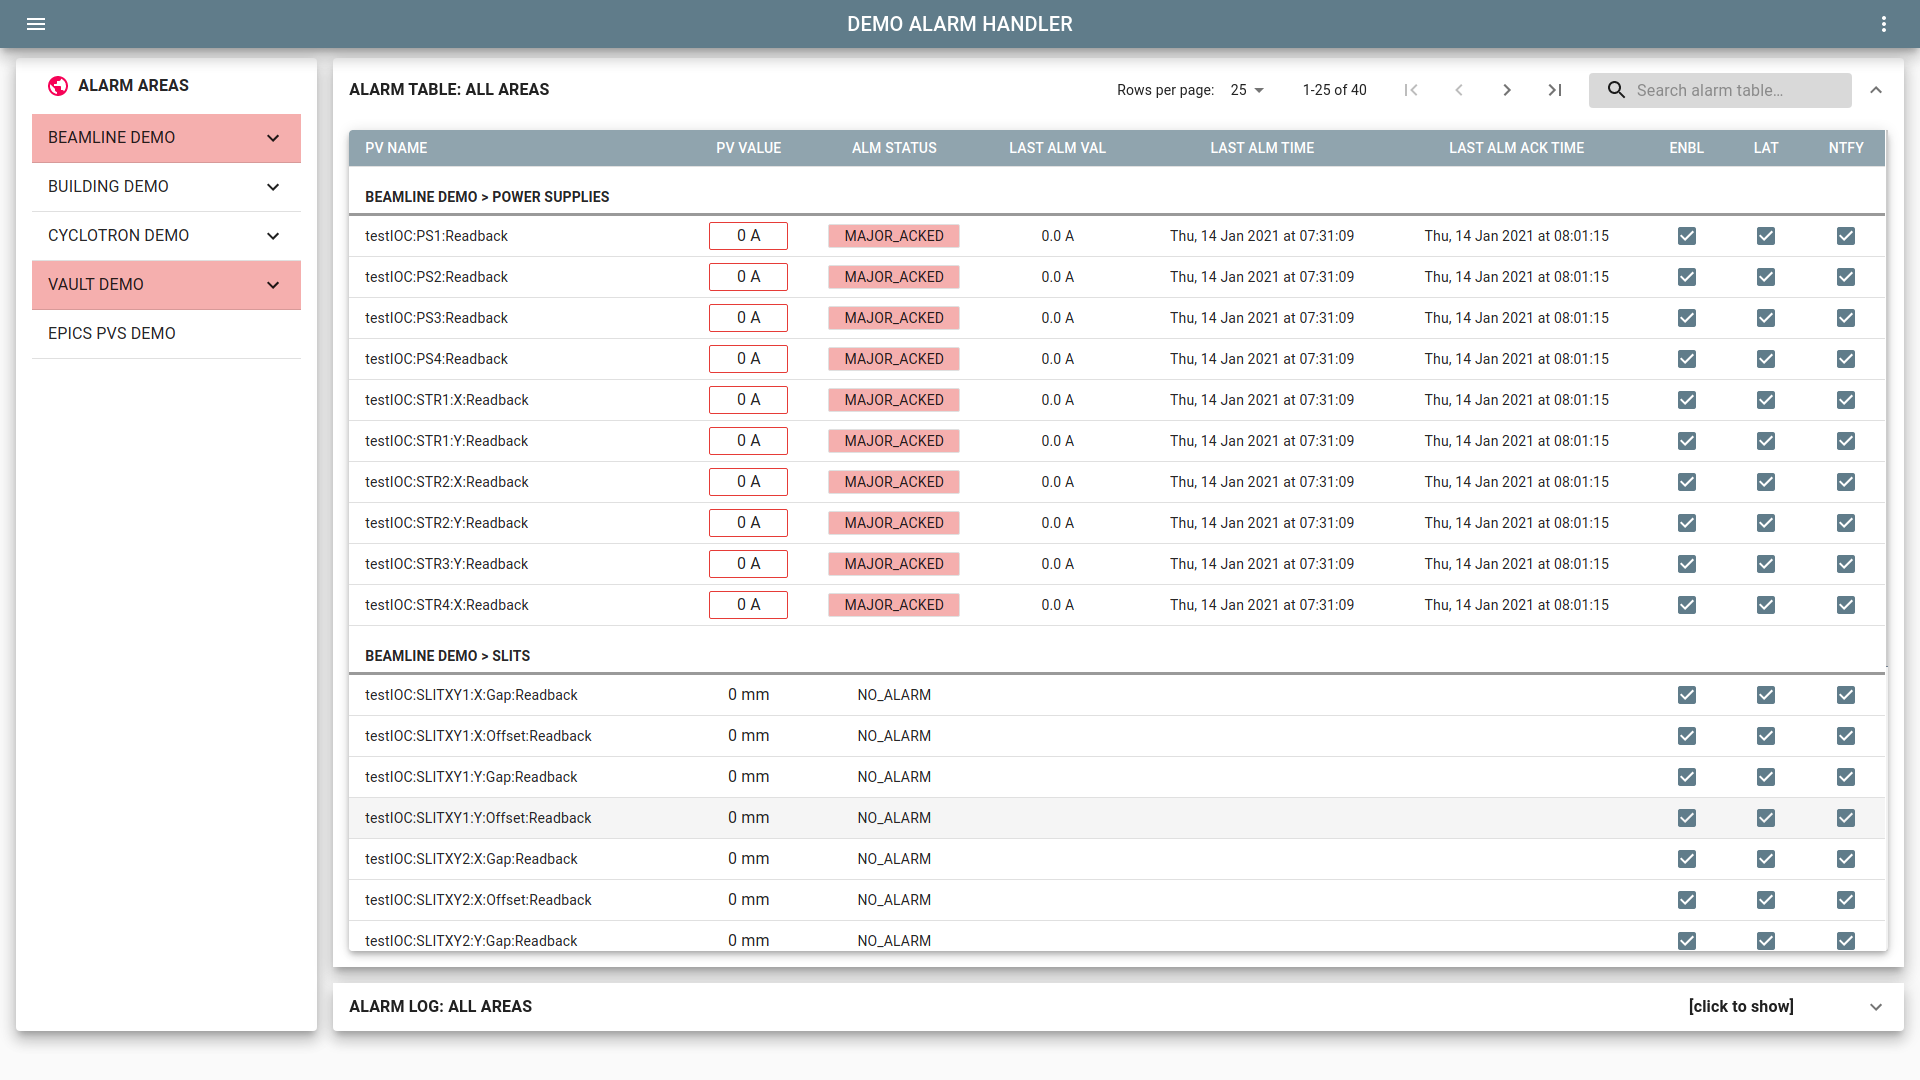
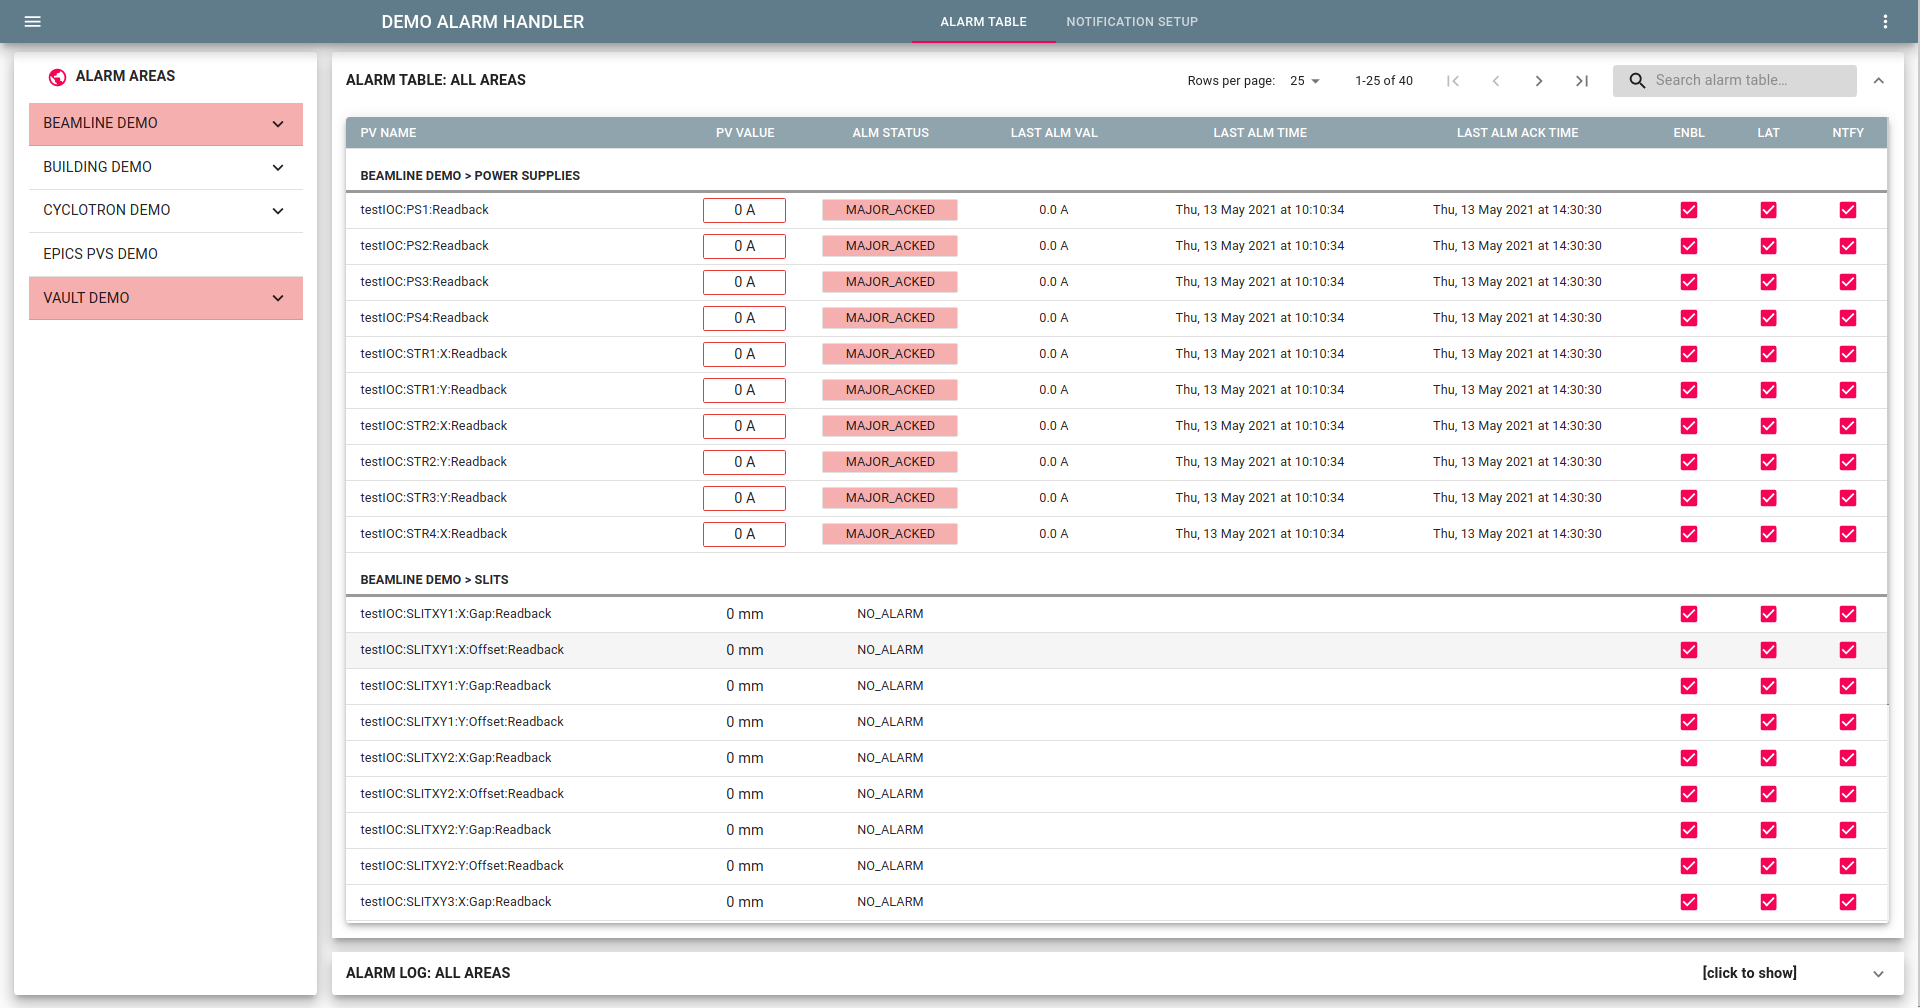
Update some of alarm handler docs

Changed region(s): [[0.0, 0.0, 1.0, 1.0]]

diff --git a/ReactApp/styleguide.config.js b/ReactApp/styleguide.config.js
@@ -234,6 +234,14 @@ module.exports = {
                   content: 'src/docs/alarmHandler/environment.md',
                 },
                 {
+                  name: 'Setting up email notifications',
+                  content: 'src/docs/alarmHandler/emailNotification.md',
+                },
+                {
+                  name: 'Setting up Signal notifications',
+                  content: 'src/docs/alarmHandler/signalNotification.md',
+                },
+                {
                   name: 'MongoDB seed data',
                   content: 'src/docs/alarmHandler/seedData.md',
                   sections: [
@@ -246,8 +254,8 @@ module.exports = {
                       content: 'src/docs/alarmHandler/pvListJson.md',
                     },
                     {
-                      name: 'users.json',
-                      content: 'src/docs/alarmHandler/usersJson.md',
+                      name: 'Users',
+                      content: 'src/docs/alarmHandler/Users.md',
                     },
                   ]
                 },

diff --git a/ReactApp/src/docs/alarmHandler/alarmAreas.md b/ReactApp/src/docs/alarmHandler/alarmAreas.md
@@ -7,6 +7,7 @@ Each area can be expanded/contracted to reveal/hide the subAreas within that are
 |                                        BEAMLINE DEMO Area (subAreas hidden)                                         |                                       BEAMLINE DEMO Area (subAreas shown)                                       |
 | :-----------------------------------------------------------------------------------------------------------------: | :-------------------------------------------------------------------------------------------------------------: |
 | <img src="img/alarmHandler/alarmSetup_AlarmList_Contracted.png" alt="alarmSetup_AlarmList_Contracted" width="80%"/> | <img src="img/alarmHandler/alarmSetup_AlarmList_Expanded.png" alt="alarmSetup_AlarmList_Expanded" width="80%"/> |
+
 <center>*Area with subAreas hidden or shown*</center>
 
 <br/>
@@ -35,7 +36,25 @@ A disabled area/subArea is reflected with a grey colour as shown below. This fol
 <br/><br/>
 
 <br/>
-**Admin actions - Adding a new pv**
+**Global actions**
+
+The **ALARM AREAS** section also has a global button (_`world icon`_ on the top left) that a user can click (left click) to select all the areas (complete alarm handler). Right clicking this icon enables a user to acknowledge or enable/disable all the areas. This is shown below.
+
+<center><img src="img/alarmHandler/alarmSetup_AlarmList_Global.png" alt="alarmSetup_AlarmList_Global" width="35%"/></center>  
+<center>*Global alarm handler actions*</center>
+<br/><br/>
+
+<br/>
+**ADMINISTRATOR ACTIONS**
+
+A set of admin actions can also be executed from the **ALARM AREAS** list as shown below. Only alarmAdmin role users can execute these actions.
+
+<center><img src="img/alarmHandler/alarmSetup_AlarmList_Admin.png" alt="alarmSetup_AlarmList_Admin" width="35%"/></center>  
+<center>*Alarm admin actions on ALARM AREAS list*</center>
+<br/><br/>
+
+<br/>
+**Admin action - Add new pv**
 
 To add a new pv right click the relevant area/subArea and under the `Alarm admin actions` menu click on `Add new pv`. This opens up the add pv dialog as shown below. The `ADD` button of the dialog is disabled until a valid live pv name is typed in. Multiple pvs can be added simultaneously by clicking the `+` icon next to the pv name.
 
@@ -43,13 +62,18 @@ To add a new pv right click the relevant area/subArea and under the `Alarm admin
 <center>*Add pv dialog*</center>
 <br/><br/>
 
-**NOTE:** Only alarmAdmin role users can execute any alarm admin actions. 
+Pvs can be deleted through the **ALARM TABLE** as shown in the next section.
 
 <br/>
-**Global actions**
+**Admin action - Add new subArea**
 
-The **ALARM AREAS** section also has a global button (*`world icon`* on the top left) that a user can click (left click) to select all the areas (complete alarm handler). Right clicking this icon enables a user to acknowledge or enable/disable all the areas. This is shown below.
+To add a new subArea right click the relevant area and under the `Alarm admin actions` menu click on `Add new subArea`. This opens up the add subArea dialog as shown below. Roles can also be added to a given subArea. If roles are not defined the subArea is visible to all alarm users, if defined they're only visible to the roles specified.
 
-<center><img src="img/alarmHandler/alarmSetup_AlarmList_Global.png" alt="alarmSetup_AlarmList_Global" width="35%"/></center>  
-<center>*Global alarm handler actions*</center>
+<center><img src="img/alarmHandler/alarmSetup_addsubArea_dialog.png" alt="alarmSetup_addsubArea_dialog" width="60%"/></center>  
+<center>*Add subArea dialog*</center>
 <br/><br/>
+
+<br/>
+**Admin action - Edit/Delete subArea**
+
+To edit/delete an existing subArea click the relevant menu item under the `Alarm admin actions` menu.

diff --git a/ReactApp/src/docs/alarmHandler/alarmNotification.md b/ReactApp/src/docs/alarmHandler/alarmNotification.md
@@ -1,9 +1,14 @@
-The alarm handler can be configured to notify a user when an alarm is triggered. Currently the alarm handler can only notify via email. In future we hope to expand this to SMS and WhatsApp.
+The alarm handler can be configured to notify a user when an alarm is triggered. Currently the alarm handler can only notify via email or the Signal messenger app. In future we hope to expand this to SMS and WhatsApp.
 
 **Email notification**<br/>
 The alarm server uses the Python [smtplib module](https://docs.python.org/3/library/smtplib.html) to define an SMTP client session object that is used to send mail to a machine with an SMTP or ESMTP listener daemon.
 
-The SMTP server settings are configured through environment variables as shown in the section <b>Setting Up Alarm Server</b>. The `SMTP_USER` and `SMTP_PASS` variables do not need to be declared if the smtp server does not require login. Once the SMTP server settings have been configured correctly, users that have been set to notify via email in the user notification setup (see section <b>User notification view
+The SMTP server settings are configured through environment variables as shown in the section <b>Setting up email notifications</b>. The `SMTP_USER` and `SMTP_PASS` variables do not need to be declared if the smtp server does not require login. Once the SMTP server settings have been configured correctly, users that have been set to notify via email in the user notification setup (see section <b>User notification view
 </b>) will be notified via email.
+
+**Signal notification**<br/>
+The alarm server uses the Python [signal-cli-rest-api](https://github.com/SebastianLuebke/signal-cli-rest-api) to interact with the Signal command line interface through http requests.
+
+The Signal server settings are configured through environment variables as shown in the section <b>Setting up Signal notifications</b>. The Signal account must subsequently be linked to the server as described in the same section. Once the Signal server has been linked correctly, users that have been set to notify via Signal in the user notification setup (see section <b>User notification view </b>) will be notified via Signal.
 
 All notification events, including failures to notify, are logged in the global alarm handler log and can be viewed in the front end (user interface).

diff --git a/ReactApp/src/docs/alarmHandler/environment.md b/ReactApp/src/docs/alarmHandler/environment.md
@@ -11,11 +11,16 @@ The alarm server is deployed with the following default parameters:
 | AH\_DEBUG | false | Directive to print additional data useful for debugging the alarm handler to the terminal
 | AH\_TZ | Etc\/UTC (Canonical +00:00) | Time zone setting for alarm handler server. This is used when dates are formatted to strings for notification. Set as per https://en.wikipedia.org/wiki/List_of_tz_database_time_zones
 | | |
+| | |
 | SMTP_HOST | | SMTP server hostname. Required for alarm handler to notify alarm events via email
 | SMTP_PORT | | SMTP server port number. Required for alarm handler to notify alarm events via email
 | SMTP_SENDER | | SMTP sender email address. Required for alarm handler to notify alarm events via email
 | SMTP_USER | | Username to log into SMTP server. Optional - leave blank if no login required
 | SMTP_PASS | | Password to log into SMTP server. Optional - leave blank if no login required
+| | |
+| | |
+| SIGNAL\_CLI\_REST\_API\_PORT | 8000 | Python signal-cli-rest-api port
+| SIGNAL\_ACC\_NUMBER |  | Mobile number used for Signal account. Must be in E.164 format as per https://en.wikipedia.org/wiki/E.164
 </center>
 <center>*Table 1: Default alarm server configuration*</center>
 <br/><br/>
@@ -58,14 +63,6 @@ Edit .env file and set new timezone (as per https://en.wikipedia.org/wiki/List_o
 ```
 
 <br/>
-**Configuring SMTP server settings for email notification:**
-
-Edit .env file and set server settings (in this example login credentials have been omitted as the server does not require login):
-```bash
-    SMTP_HOST=smtpserver.lab.edu
-    SMTP_PORT=12345
-    SMTP_SENDER=alarmnotifier@lab.edu
-```
 
 **NOTE:** If the alarm database name is changed, upon restart of the alarm handler, a new database with the set name is created and initialised with seed data (see next section for details on seed data). **The alarm server will no longer point to the previous alarm database and historical alarm data will not be accessible!** For this reason it is recommended that the alarm database name is set as desired before deploying into production or saving critical data onto the database.
 

diff --git a/ReactApp/src/docs/alarmHandler/signalNotification.md b/ReactApp/src/docs/alarmHandler/signalNotification.md
@@ -1,0 +1,44 @@
+To enable Signal notifications first set the server port and the Signal account number through environment variables.
+
+The server port defaults to 8000 if not set.
+
+The Signal account number must be in E.164 format as per https://en.wikipedia.org/wiki/E.164 .
+
+Edit .env file and set:
+
+```bash
+    SIGNAL_ACC_NUMBER=+12345678901
+    SIGNAL_CLI_REST_API_PORT=8000
+```
+
+<br/>
+
+The next step is to link the Signal account (number above) to the server. **To link the device you will require a mobile smartphone with the Signal app installed and logged in with the above Signal account number.**
+
+On a browser navigate to the signal-cli-rest-api web server which can be found at http://localhost:8000/docs if RAS is running on the local PC or at http://XXX.XXX.XXX.XXX:8000/docs where XXX... is the IP of the remote server.
+
+<br/>
+
+You will be presented with the web interface below.
+
+<center>
+<img src="img/alarmHandler/signal-cli-rest-api.png" alt="signal-cli-rest-api" width="100%"/>
+</center>
+<center>*signal-cli-rest-api web server*</center>
+<br/><br/>
+
+To link the device follow the steps below:
+1. On the signal-cli-rest-api web server under the **register** methods click on **/register/{number}/link**
+2. Click on the **[Try it out]** button
+3. Enter the Signal account number (as above in E.164 format) in the **number** input field and click on the **[Execute]** button
+4. After a few seconds a response will be shown with a QR code, ensure the response code is 200 - HTTP OK success response
+5. In the Signal app on the mobile smartphone:
+   * Navigate to **Settings** > **Linked devices**
+   * Click on the **(+)** icon to link a new device
+   * Use the smartphone camera to scan the QR code shown on the webserver from above
+   * Click **Link device** when prompted
+   * A **Device approved** message will confirm that the device has been linked
+
+To verify the link on the server:
+   * Navigate from the React Automation Studio root folder to `./signalcli/signal-cli-config/data/`
+   * Verify that a file with filename of the Signal account number has been created at that location

diff --git a/ReactApp/src/docs/alarmHandler/alarmSetup.md b/ReactApp/src/docs/alarmHandler/alarmSetup.md
@@ -1,12 +1,4 @@
-The remainder of the user guide addresses the alarm handler user interface. This is comprised of two views - an alarm setup view and a user notification view.
-
-Use the moreVert drawer menu (three dots on top right) to switch between the alarm setup and user notification views as shown below.
-
-<center>
-<img src="img/alarmHandler/alarmSetup_userNotification_click2.png" alt="alarmSetup_userNotification_click" width="100%"/>
-</center>
-<center>*Navigating between alarm setup and user notification views using moreVert drawer menu*</center>
-<br/><br/>
+The remainder of the user guide addresses the alarm handler user interface. This is comprised of two views - an alarm table view and a notification setup view. Use the tabs on top to switch between the alarm table view and notification setup views.
 
 The alarm setup view comprises of three areas - the **ALARM AREAS** menu list, the **ALARM TABLE** and the **ALARM LOG** as shown below.
 

diff --git a/ReactApp/src/docs/alarmHandler/seedData.md b/ReactApp/src/docs/alarmHandler/seedData.md
@@ -1,10 +1,9 @@
-The first time the alarm handler is run an alarm database is created and initialised with seed data from three json files.
+The first time the alarm handler is run an alarm database is created and initialised with seed data from two json files.
 
 These files can be found, from the React Automation Studio root folder, at:
 ```bash
     ./alarmHandlerDbInit/initDBData/config.json
     ./alarmHandlerDbInit/initDBData/pvList.json
-    ./alarmHandlerDbInit/initDBData/users.json
 ```
 
 **NOTE:** Subsequent changes to these files will only take effect if you delete the existing alarm database or prune the Docker volume attached to the MongoDB server on which the alarm database resides. **This will result in all data stored in the previous alarm database being deleted permanently!** For this reason it is recommended that you set these files up correctly before starting the alarm server.

diff --git a/ReactApp/src/docs/alarmHandler/serverLogging.md b/ReactApp/src/docs/alarmHandler/serverLogging.md
@@ -6,9 +6,9 @@ The table below lists the alarm actions/events and parameters that the alarm ser
 | Alarm triggered          |     X     |      X       |    X     |          |
 | Alarm acknowledged       |     X     |      X       |          |    X     |
 | Alarm demoted            |     X     |      X       |          |          |
-| PV enabled/disabled      |     X     |              |          |          |
-| SubArea enabled/disabled |     X     |              |          |          |
-| Area enabled/disabled    |     X     |              |          |          |
+| PV enabled/disabled      |     X     |              |          |    X     |
+| SubArea enabled/disabled |     X     |              |          |    X     |
+| Area enabled/disabled    |     X     |              |          |    X     |
 </center>
 <center>*Table 4: Actions and events logged by alarm server*</center>
 <br/><br/>

diff --git a/ReactApp/src/docs/alarmHandler/alarmTable.md b/ReactApp/src/docs/alarmHandler/alarmTable.md
@@ -94,3 +94,13 @@ This checkbox will be disabled (greyed out) if the subArea/area to which the ala
 The NTFY checkbox allows a user to configure whether alarms from the pv should notify users.
 
 This checkbox will be disabled (greyed out) if the subArea/area to which the alarm pv belongs in disabled.
+
+<br/>
+**ADMINISTRATOR ACTIONS**
+
+Pvs can be deleted from the **ALARM TABLE**. Only alarmAdmin role users can execute these actions.
+
+<br/>
+**Admin action - Delete pv**
+
+To delete a pv right click the relevant pv row in the **ALARM TABLE** and under the `Alarm admin actions` menu click on `Delete pv`.

diff --git a/ReactApp/src/docs/alarmHandler/pvListJson.md b/ReactApp/src/docs/alarmHandler/pvListJson.md
@@ -120,4 +120,4 @@ and each subArea{k} object is defined as:
 
 From these definitions it is clear that a user can define a custom number of areas, each with a custom number of pvs and subAreas.
 
-**NOTE:** It is currently only possible to add new pvs from the front end (user interface). It is not possible to add or remove areas nor subAreas in a controlled manner from the front end. It is envisaged that this will be done in a future release.
+**NOTE:** It is possible to add/remove pvs, areas and subAreas from the front end (user interface) in a controlled manner.

diff --git a/ReactApp/src/docs/alarmHandler/emailNotification.md b/ReactApp/src/docs/alarmHandler/emailNotification.md
@@ -1,0 +1,17 @@
+To enable email notifications the SMTP server settings must be set through environment variables.
+
+Edit .env file and set server settings (in this example login credentials have been omitted as the server does not require login):
+```bash
+    SMTP_HOST=smtpserver.lab.edu
+    SMTP_PORT=12345
+    SMTP_SENDER=alarmnotifier@lab.edu
+```
+
+If you require server login set .env file as:
+```bash
+    SMTP_HOST=smtpserver.lab.edu
+    SMTP_PORT=12345
+    SMTP_SENDER=alarmnotifier@lab.edu
+    SMTP_USER=username
+    SMTP_PASS=password
+```

diff --git a/ReactApp/src/docs/alarmHandler/Users.md b/ReactApp/src/docs/alarmHandler/Users.md
@@ -1,0 +1,1 @@
+The users are seeded from the administrator user database on initialisation and subsequent restarts.
